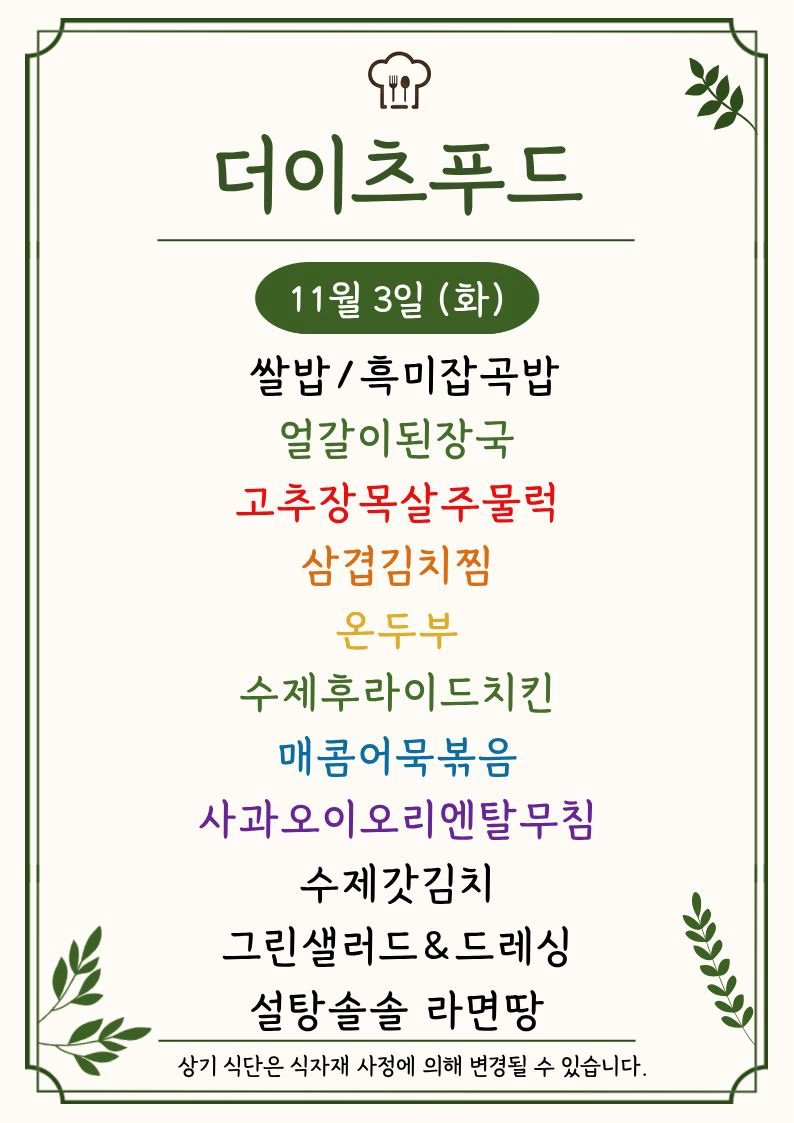
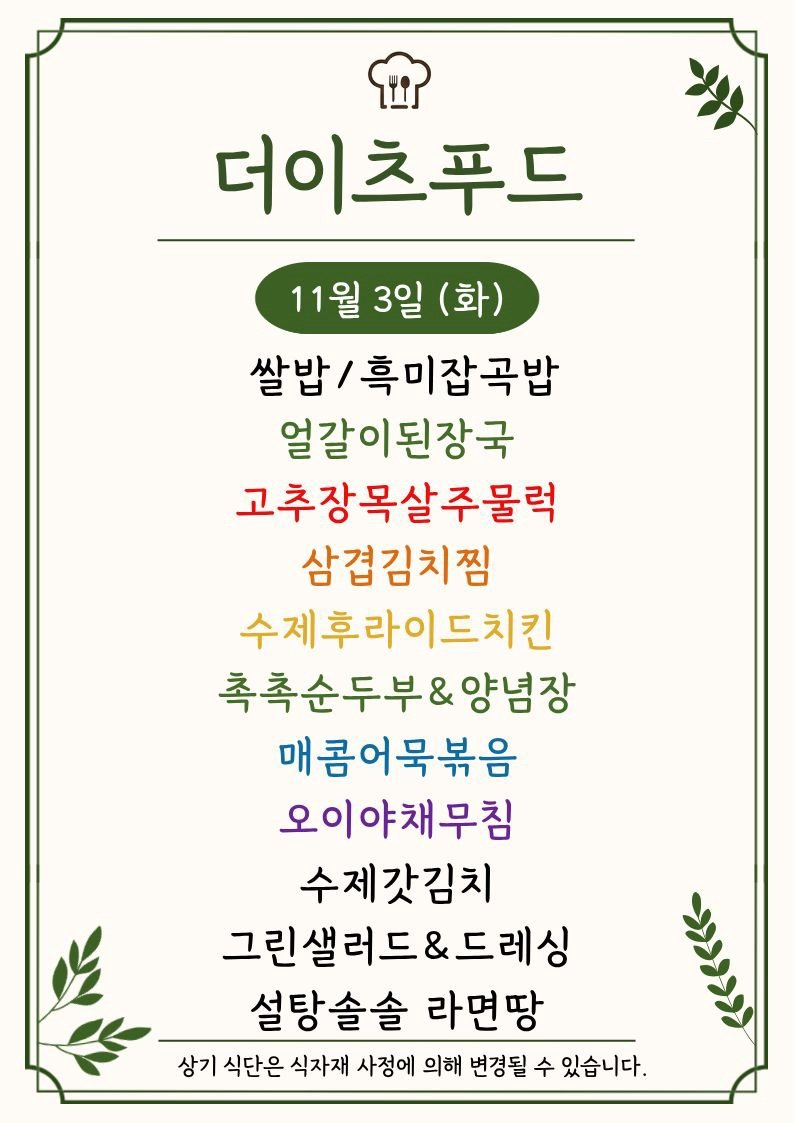
Update menu board assets

Changed region(s): [[0.272, 0.5298, 0.7254, 0.6545], [0.2418, 0.7168, 0.7557, 0.748]]

diff --git a/guro-menu/index.html b/guro-menu/index.html
@@ -32,7 +32,7 @@
   </header>
   <section class="meta">
     <div><small>기준 날짜</small><strong>2026년 11월 3일 화요일</strong></div>
-    <div><small>최종 갱신</small><strong>2026-11-03 09:18:39</strong></div>
+    <div><small>최종 갱신</small><strong>2026-11-03 09:33:46</strong></div>
     <div><small>등록 식당</small><strong>5개</strong></div>
   </section>
   <div class="notice">공개 카카오 채널의 메뉴 이미지를 자동 수집하고 OCR로 정리합니다. 텍스트에 오타가 있을 수 있으니 식단 이미지를 함께 확인해 주세요.</div>
@@ -76,7 +76,7 @@
         </div>
         <img class="menu-image" src="./images/the-eats-food.png" alt="더이츠푸드 식단 이미지" loading="lazy">
         
-        <ul><li>쌀밥/흑미잡곡밥</li><li>얼갈이된장국</li><li>고추장목살주물럭</li><li>삼겹김치찜</li><li>수제후라이드치킨</li><li>매콤어묵볶음</li><li>사과오이오리엔탈무침</li><li>수제갓김치 y</li><li>그린샐러드&amp;드레싱 oY</li><li>설탕솔솔 라면땅 1</li></ul>
+        <ul><li>더[0 프ㄷ</li><li>쌀밥/흑미잡곡밥</li><li>얼갈이된장국</li><li>고추장목살주물럭</li><li>삼겹김치찜</li><li>촉촉순두부&amp;양념장</li><li>매콤어묵볶음</li><li>오이야채무침</li><li>수제갓김치 y</li><li>그린샐러드&amp;드레싱 Y</li><li>설탕솔솔 라면땅 긴</li></ul>
       </article>
 
       <article class="restaurant-card">

diff --git a/menu-today/index.html b/menu-today/index.html
@@ -209,7 +209,7 @@
 
     <section class="meta-bar">
       <div class="meta-card"><div class="meta-label">기준 날짜</div><div class="meta-value">2026년 11월 3일 화요일</div></div>
-      <div class="meta-card"><div class="meta-label">최종 가져온 시간</div><div class="meta-value">2026-11-03 09:18:27</div></div>
+      <div class="meta-card"><div class="meta-label">최종 가져온 시간</div><div class="meta-value">2026-11-03 09:33:33</div></div>
       <div class="meta-card"><div class="meta-label">확인 완료</div><div class="meta-value">9개 식당</div></div>
       <div class="meta-card"><div class="meta-label">준비중</div><div class="meta-value">3개 채널</div></div>
     </section>
